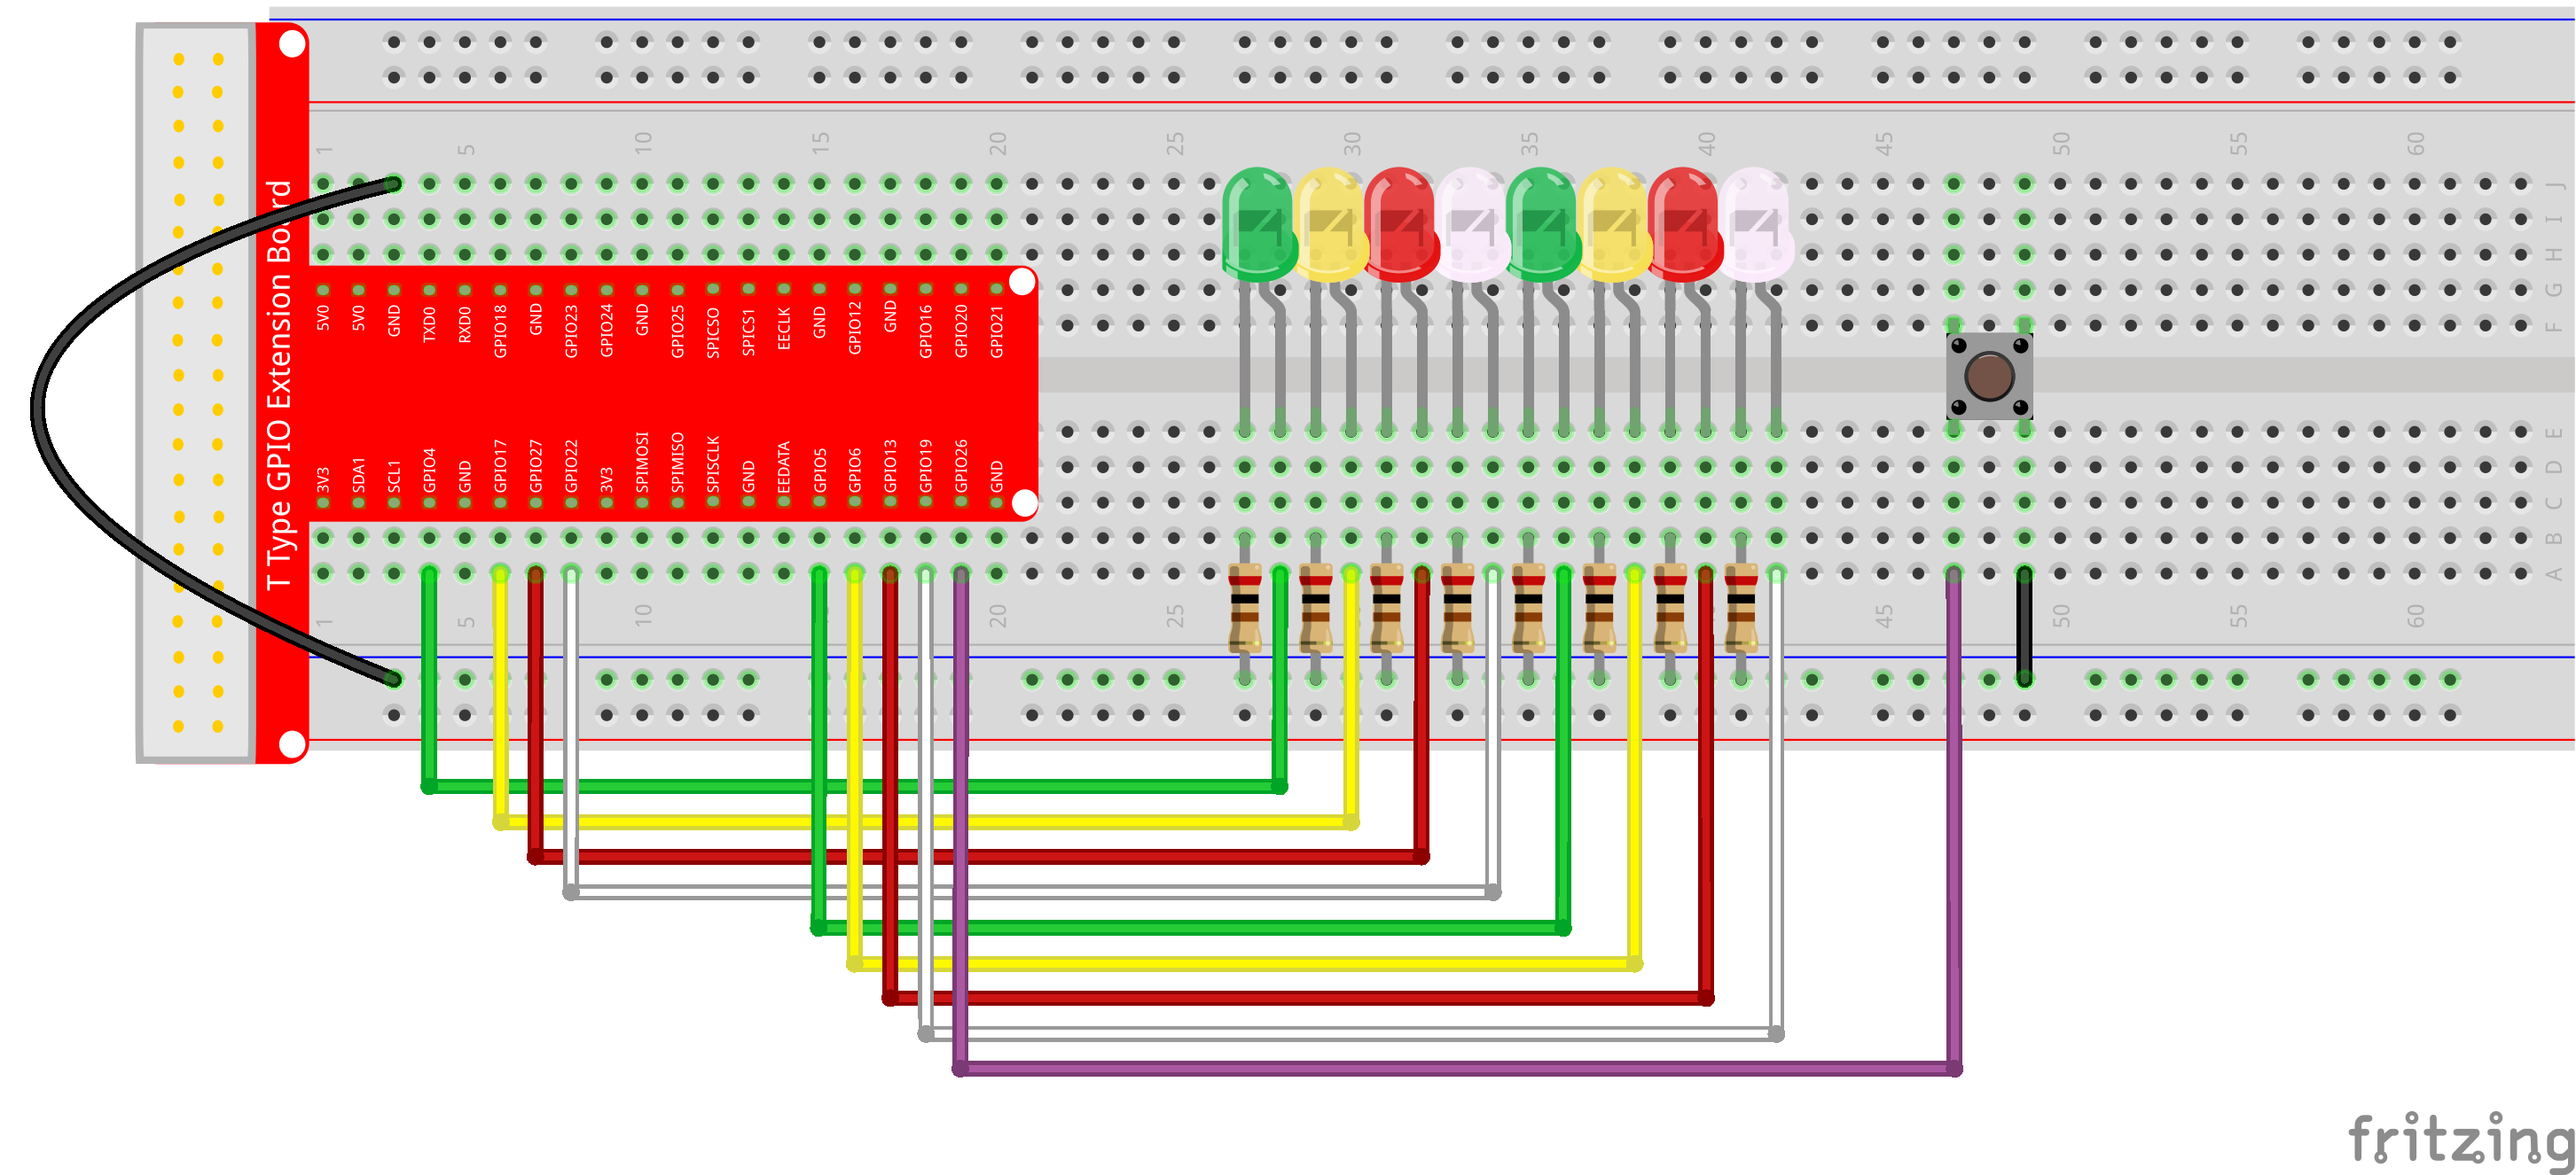
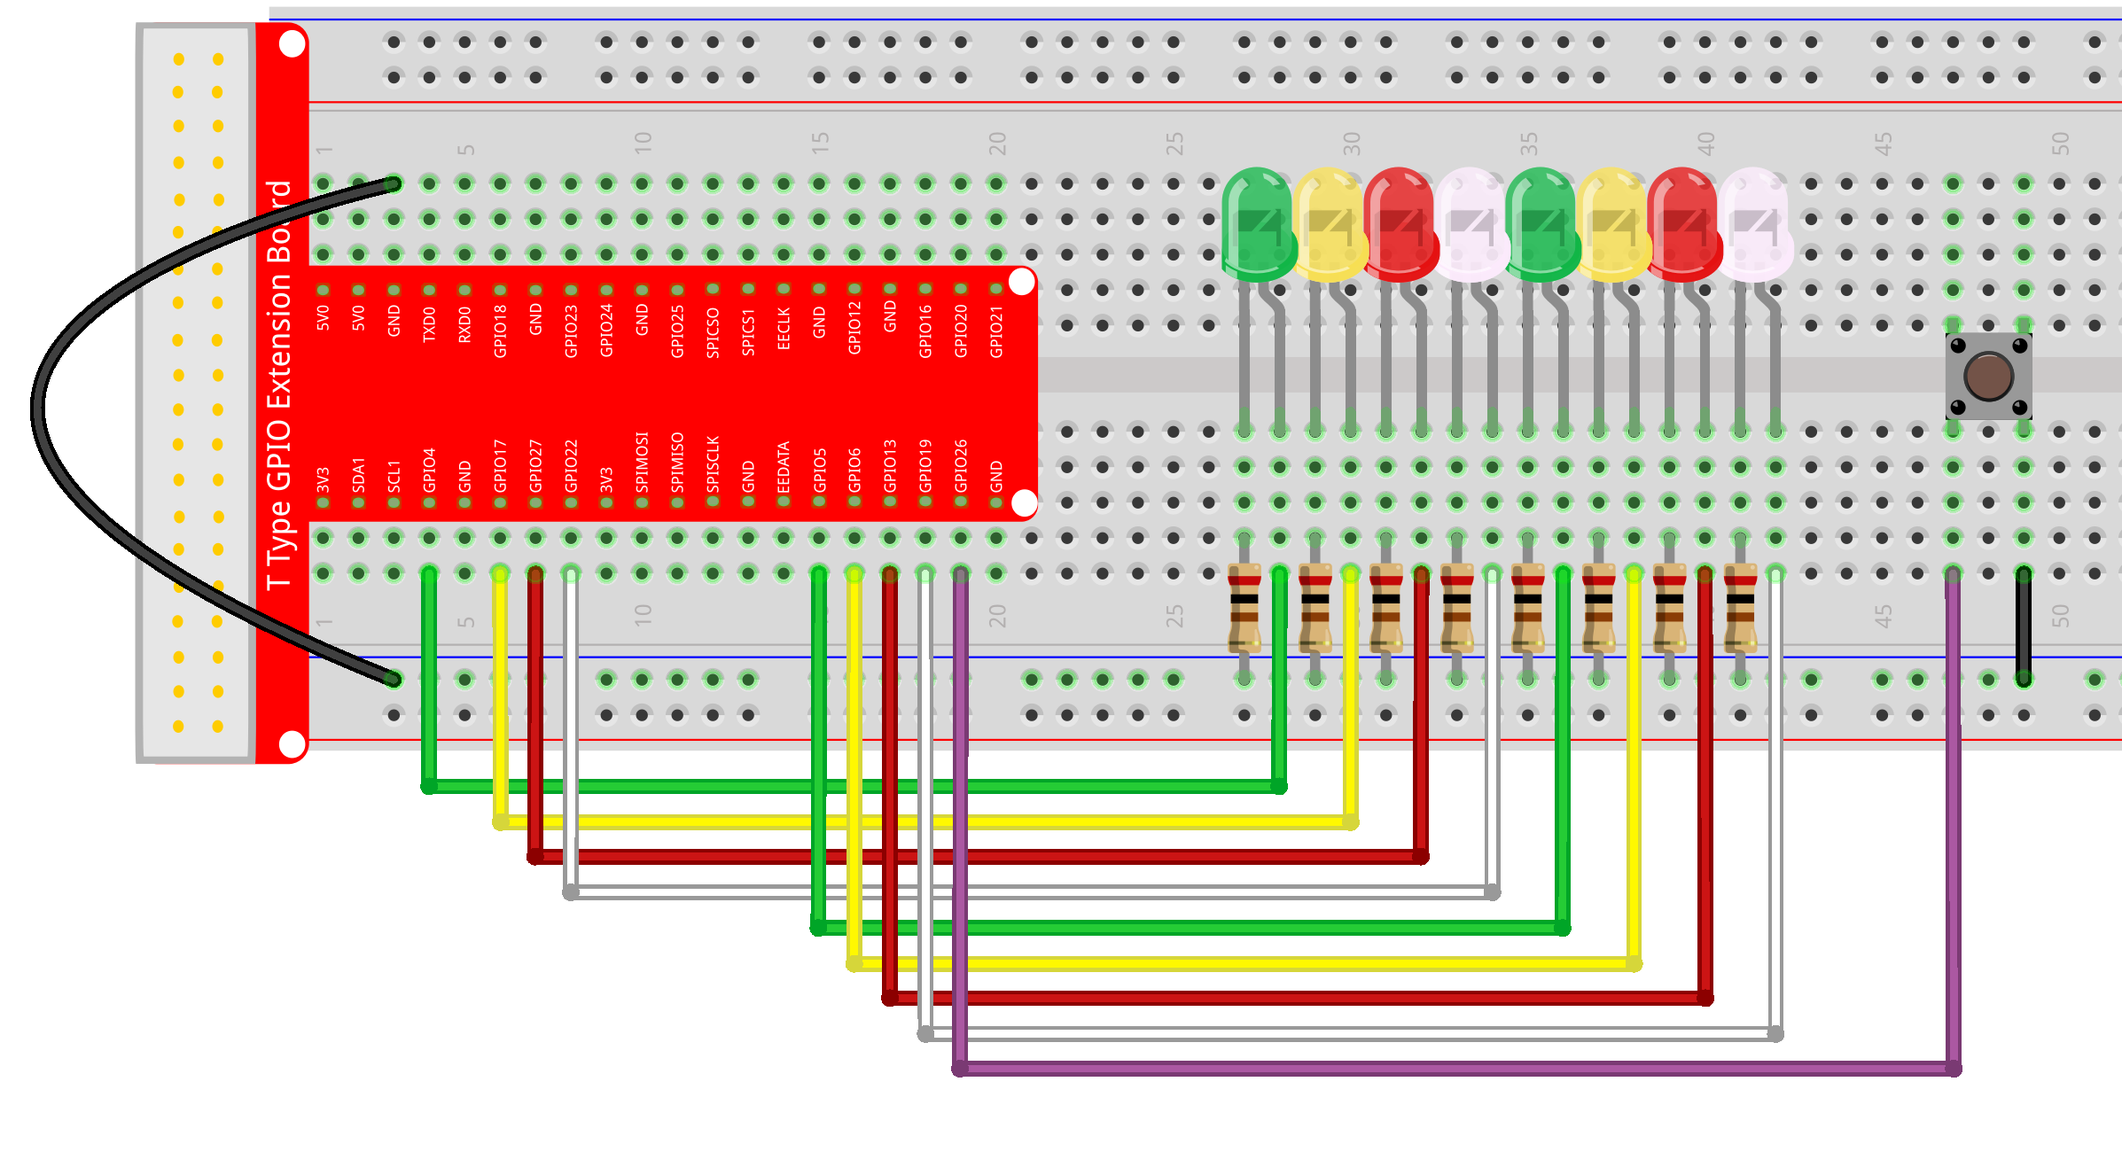
図をfritzingに差し替え

Changed region(s): [[0.0, 0.0, 1.0, 0.9276], [0.8964, 0.9585, 1.0, 1.0], [0.9891, 0.0309, 1.0, 0.0618]]

diff --git a/lesson1_LED/応用2.py b/lesson1_LED/応用2.py
@@ -3,9 +3,9 @@
 import time
 import RPi.GPIO as GPIO
 
-# GPIO17, GPIO13, GPIO26にLEDの+を接続
-# 「応用1, 2回路図.jpg」を参照してください
-LED_PINS = [17, 13, 26]
+# GPIO17, GPIO22, GPIO5にLEDの+を接続
+# 「応用_回路図.png」を参照してください
+LED_PINS = [17, 22, 5]
 # 待機する秒数の変数
 INTERVAL = 0.2
 

diff --git a/lesson1_LED/応用1.py b/lesson1_LED/応用1.py
@@ -3,9 +3,9 @@
 import time
 import RPi.GPIO as GPIO
 
-# GPIO17, GPIO13, GPIO26にLEDの+を接続
-# 「応用1, 2回路図.jpg」を参照してください
-LED_PINS = [17, 13, 26]
+# GPIO17, GPIO22, GPIO5にLEDの+を接続
+# 「応用_回路図.png」を参照してください
+LED_PINS = [17, 22, 5]
 
 
 def setup():

diff --git a/lesson2_ボタンの制御/基礎.py b/lesson2_ボタンの制御/基礎.py
@@ -2,8 +2,8 @@
 
 import RPi.GPIO as GPIO
 
-LED_PIN = 17  # LEDをGPIO17に
-BUTTON_PIN = 18  # ボタンをGPIO18に
+LED_PIN = 5  # LEDをGPIO5に
+BUTTON_PIN = 17  # ボタンをGPIO17に
 
 
 def setup():

diff --git a/lesson2_ボタンの制御/応用.py b/lesson2_ボタンの制御/応用.py
@@ -3,8 +3,8 @@
 import RPi.GPIO as GPIO
 import time
 
-LED_PIN = 17  # GPIO17
-BUTTON_PIN = 18  # GPIO18
+LED_PIN = 5  # GPIO5
+BUTTON_PIN = 17  # GPIO17
 
 
 def setup():
